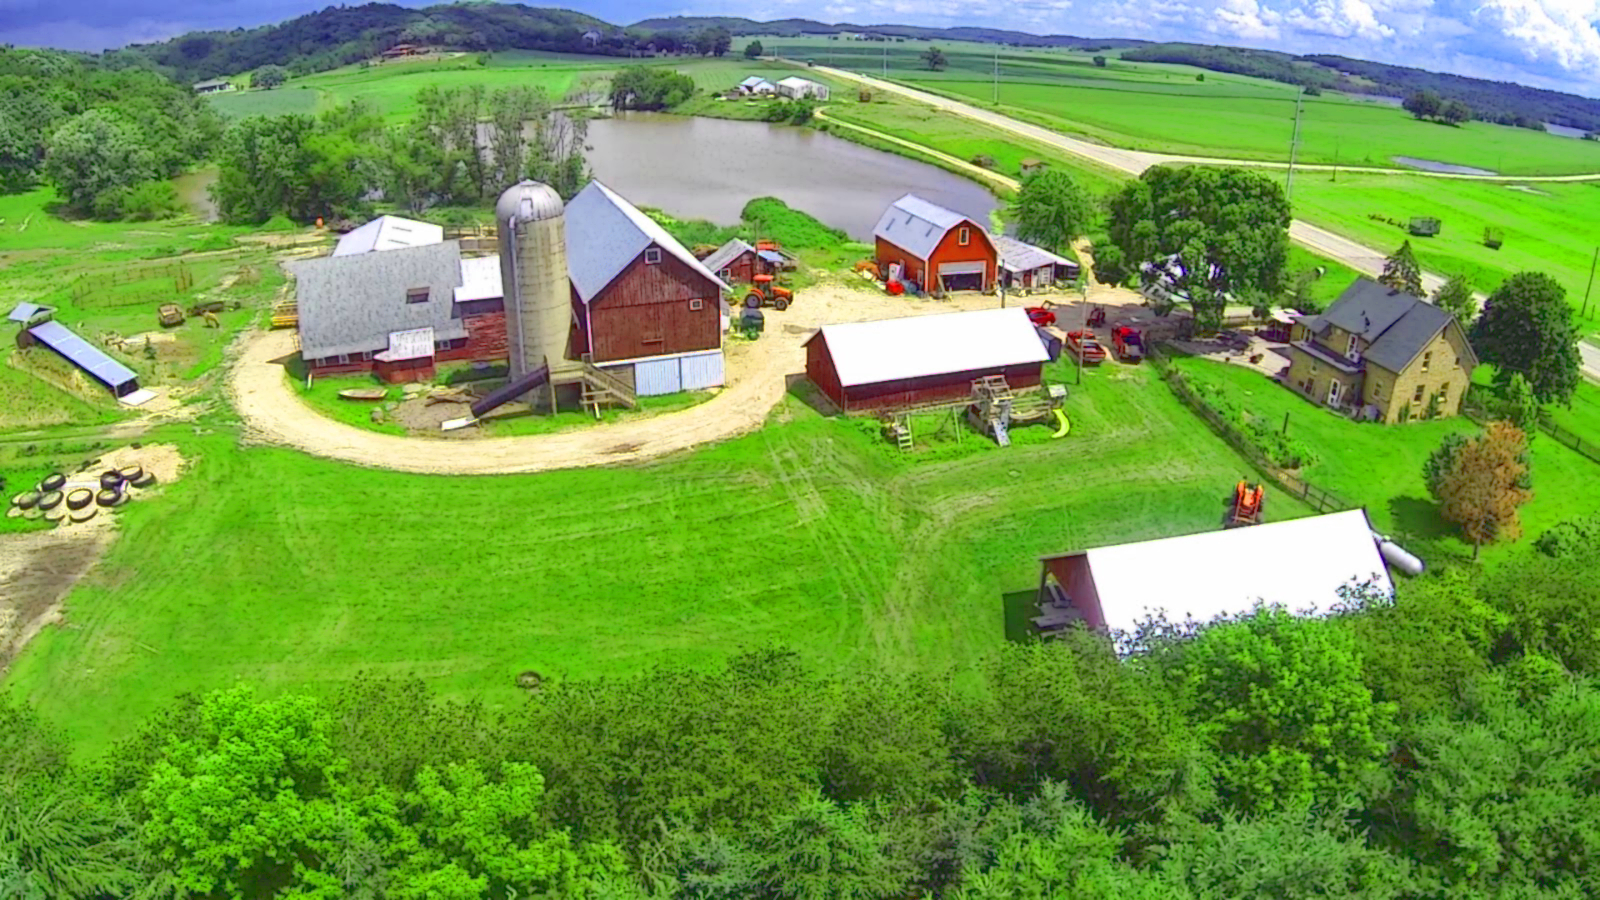
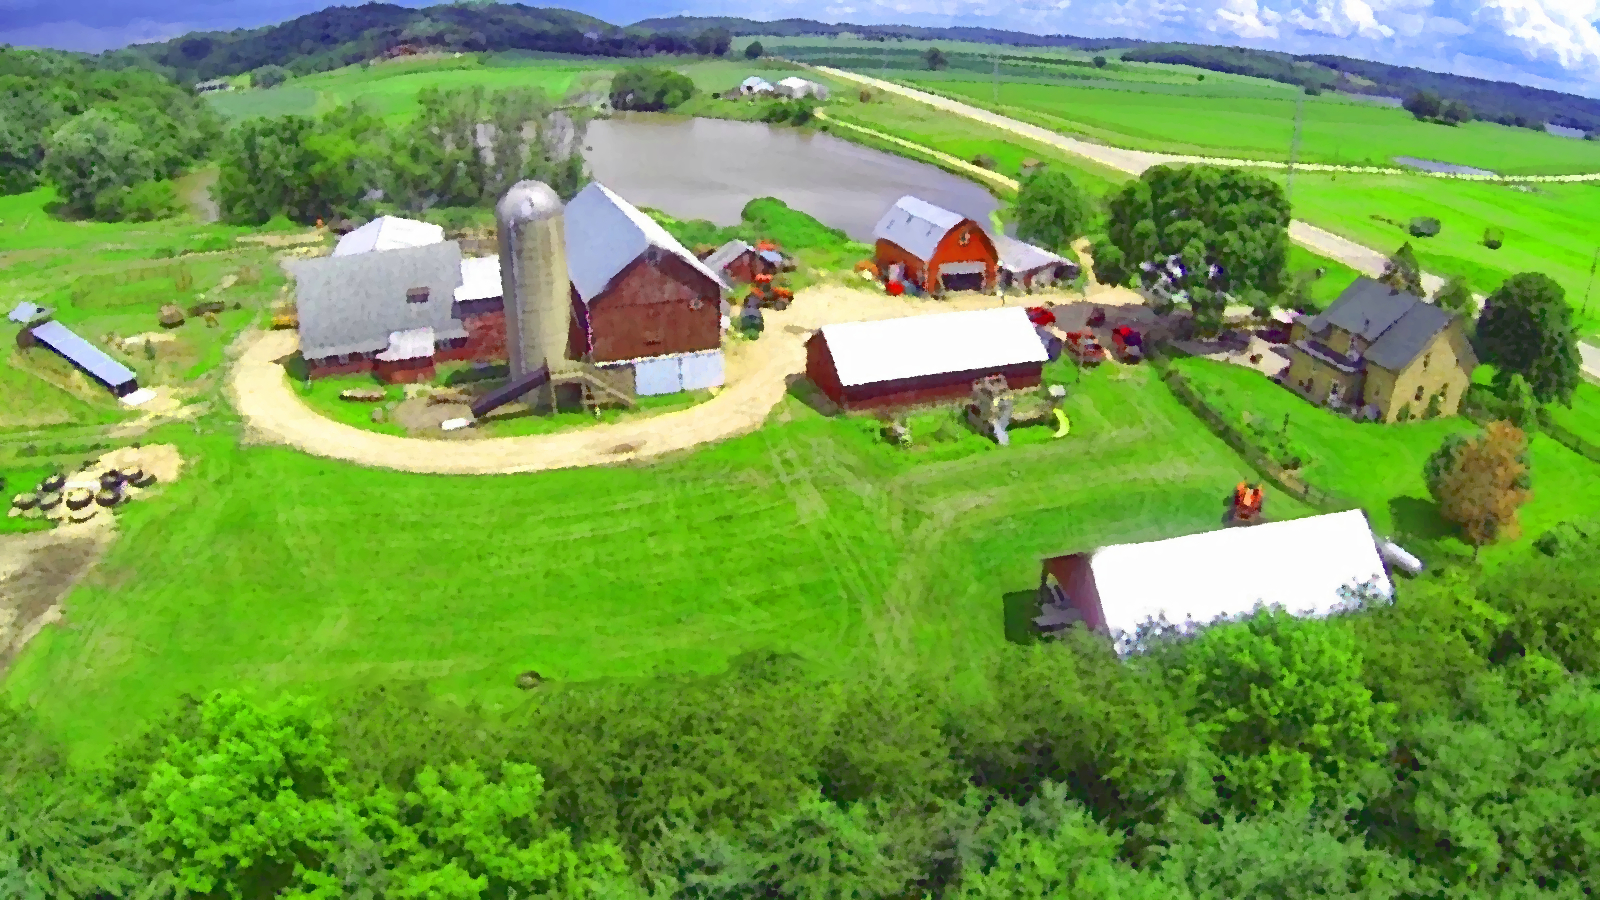
different map background. moved back button to side pane. small fixes

diff --git a/map.js b/map.js
@@ -1,9 +1,12 @@
 
 // Global variables
 var map;
-var backButton;
 var markerGroup;
 var backgroundImage;
+
+var viewingMarker; // is the user currently viewing a marker?
+
+var siteName, siteDescription;
 
 var DEFAULT_ZOOM = 11;
 
@@ -21,32 +24,18 @@ function initMap() {
   });
 
   // temp tile layer for now
-  var tileLayer = L.tileLayer('https://api.tiles.mapbox.com/v4/{id}/{z}/{x}/{y}.png?access_token={accessToken}', {
+  var tileLayer = L.tileLayer('http://c.tile.stamen.com/watercolor/{z}/{x}/{y}.jpg', {
       //attribution: 'Map data &copy; <a href="http://openstreetmap.org">OpenStreetMap</a> contributors, <a href="http://creativecommons.org/licenses/by-sa/2.0/">CC-BY-SA</a>, Imagery © <a href="http://mapbox.com">Mapbox</a>',
-      maxZoom: 18,
-      id: 'mapbox.outdoors',
-      accessToken: 'pk.eyJ1Ijoic3VoZmYiLCJhIjoiY2plMGk3eWh1MHk0MDMzbW9scDhhaXpibiJ9.B32EslPErO5wtqwwa9vvyQ'
+      maxZoom: 18
   }).addTo(map);
 
   // add all sites to the map
   getSites();
 
-  // init the back button
-  backButton = L.easyButton({
-    id: 'back-btn',
-    position: 'topleft',
-    type: 'replace',
-    leafletClasses: false,
-    states: [{
-      stateName: 'go-back',
-      onClick: goBack,
-      title: 'Go back',
-      icon: '<img alt="back button" src="images/buttons/back.png"/>'
-    }]
-  });
-
   // site background image
   backgroundImage = null;
+
+  viewingMarker = false;
 
   // markers in a site
   markerGroup = L.layerGroup().addTo(map);
@@ -96,10 +85,15 @@ function getSites() {
   });
 }
 
-function updateContent(title, image, text) {
+function updateContent(title, text, image = null, video = null, date = null) {
   $("#content-title").text(title);
   $("#content-image").attr("src", image);
   $("#content-text").text(text);
+  if (date !== null) {
+    $("#content-date").text("Date: " + date);
+  } else {
+    $("#content-date").text("");
+  }
 }
 
 /*
@@ -107,7 +101,13 @@ function updateContent(title, image, text) {
  */
 function loadSite(id, longitude, latitude, background, name, description) {
 
-  updateContent(name, "", description);
+  siteName = name;
+  siteDescription = description;
+
+  updateContent(name, description);
+
+  // add back button
+  addBackButton();
 
 
   // disableUserControl();
@@ -142,15 +142,11 @@ function loadSite(id, longitude, latitude, background, name, description) {
 
             let marker = L.marker([feature['latitude'], feature['longitude']], {icon: markerIcon}).addTo(markerGroup);
 
-            // Show a pop up with information about the feature
-            // let popup = L.popup({maxWidth: 500, minWidth: 500, maxHeight: 800, minHeight: 800, keepInView: true, className: 'custom'})
-            //   .setContent("<h1>" + feature['name'] + '</h1><img height=300 width=500 src="images/content/' + feature['content_image'] + '"/><p>' + feature['content_text'] + '</p><p>Date added: ' + feature['date_added'] + '</p>')
-            //   .setLatLng(map.getCenter());
-            // marker.bindPopup(popup);
-
 
             marker.on("click", function() {
-              updateContent(feature['name'], "images/content/" + feature['content_image'], feature['content_text']);
+              map.setView(this.getLatLng(), DEFAULT_ZOOM + 1); // center and zoom on marker
+              updateContent(feature['name'], feature['content_text'],  "images/content/" + feature['content_image'], null, feature['date_added']);
+              viewingMarker = true;
             });
 
 
@@ -164,23 +160,36 @@ function loadSite(id, longitude, latitude, background, name, description) {
      }
   });
 
-  backButton.addTo(map);
+  addBackButton();
 
+}
+
+function addBackButton() {
+  $("#back-button").css("display", "inline");
+}
+
+function removeBackButton() {
+  $("#back-button").css("display", "none");
 }
 
 /*
  * Called when the back button is clicked.
  */
 function goBack() {
-  // enableUserControl();
-  map.removeControl(backButton);
-  map.removeLayer(backgroundImage);
-  markerGroup.clearLayers();
   map.setZoom(DEFAULT_ZOOM);
-  map.setMaxBounds(null);
-  getSites();
 
-  updateContent("Welcome to the BFB Map!", "", "This map records significant project activities and knowledge that has been produced at major sites of activity. Start by clicking on either Kelowna or Richmond, and then click an image for more information about it.");
+  if (viewingMarker) {
+    updateContent(siteName, siteDescription);
+    viewingMarker = false;
+  } else {
+    removeBackButton();
+    map.removeLayer(backgroundImage);
+    markerGroup.clearLayers();
+    map.setMaxBounds(null);
+    getSites();
+
+    updateContent("Welcome to the BFB Map!", "This map records significant project activities and knowledge that has been produced at major sites of activity. Start by clicking on either Kelowna or Richmond, and then click an image for more information about it.");
+  }
 }
 
 /*

diff --git a/index.html b/index.html
@@ -42,9 +42,11 @@
         </div>
       </div>
       <div class="col-md-5" id="map-content">
+        <button id="back-button" onclick="goBack()">Back</button>
         <h3 id="content-title">Welcome to the BFB Map!</h3>
         <img id="content-image" src=""/>
         <p id="content-text">This map records significant project activities and knowledge that has been produced at major sites of activity. Start by clicking on either Kelowna or Richmond, and then click an image for more information about it.</p>
+        <p id="content-date"></p>
       </div>
     </div>
   </div>

diff --git a/style/all.css b/style/all.css
@@ -30,6 +30,7 @@ h1 {
 #map-content {
   padding-left: 2em;
   padding-right: 2em;
+  overflow: auto;
 }
 
 #content-title {
@@ -43,6 +44,22 @@ h1 {
   /*border: 1px solid white;*/
 }
 
+#content-date {
+  font-style: italic;
+}
+
 #logo {
   margin-bottom: 1em;
+}
+
+#back-button {
+  position: absolute;
+  left: 0;
+  display: none;
+
+  background-color: #625A8C;
+}
+
+#back-button:hover {
+  color: #FBB655;
 }
